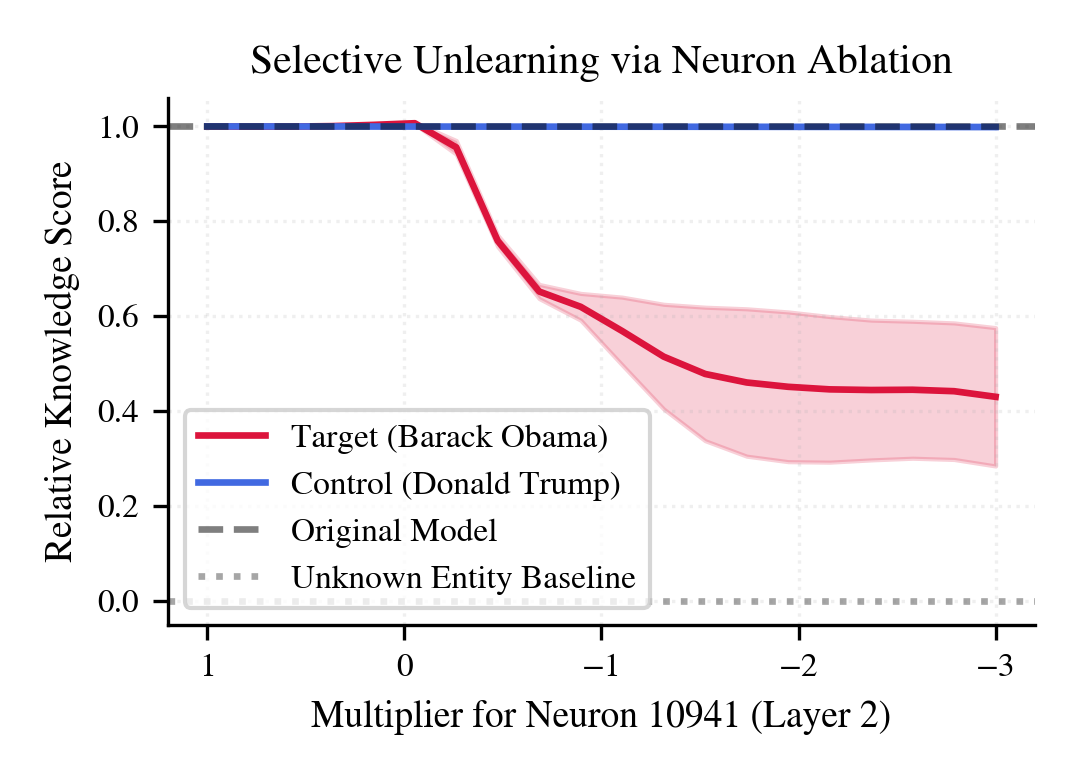
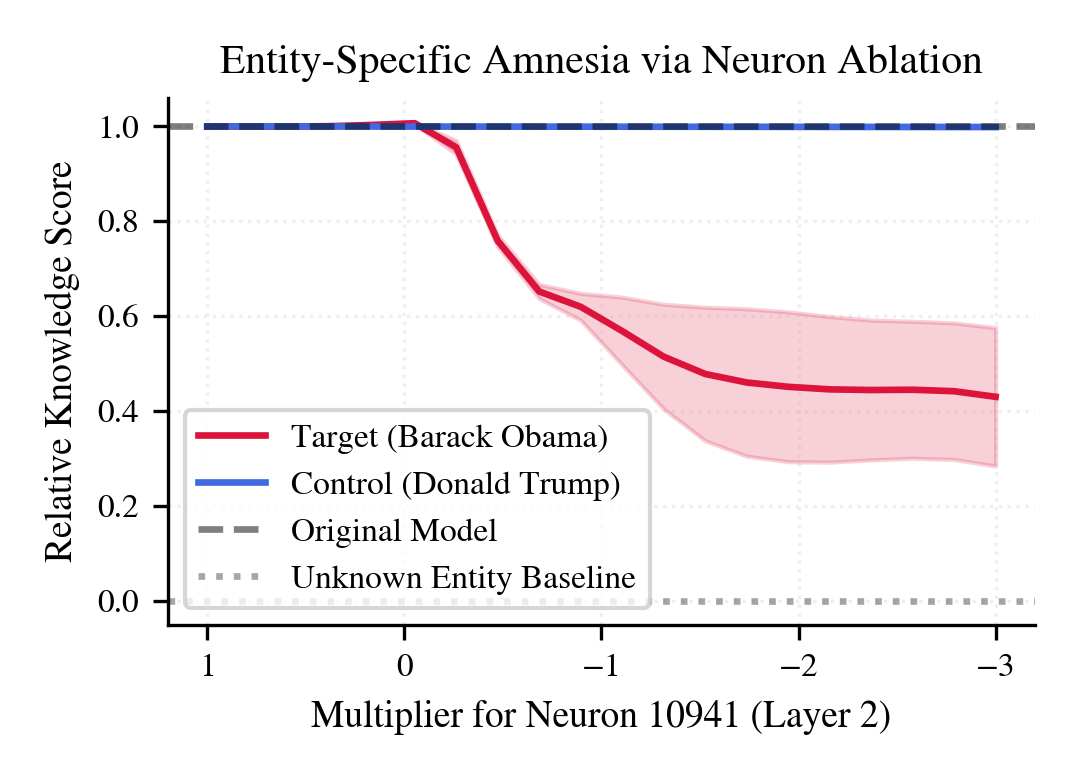
Tighten framing and rename F6 amnesia plot title

Changed region(s): [[0.1833, 0.0615, 0.9167, 0.1231]]

diff --git a/paper/paper.tex b/paper/paper.tex
@@ -43,15 +43,15 @@
 \maketitle
 
 \begin{abstract}
-Large language models store vast entity-centric knowledge, but where that knowledge lives internally and how controllable it is remain open questions. We provide a mechanistic study in Qwen2.5-7B base that localizes entity-associated MLP neurons (entity cells), validates them with causal interventions, and tests whether targeted edits can remain selective. Across a curated PopQA-200 benchmark, we find sparse and stable entity cells concentrated in early MLP layers and robust to surface-form variation. In QA-style prompts, activation injection at localized cells recovers answer-token probability relative to no-injection and wrong-cell controls, and negative ablation produces selective unlearning for a target entity relative to a control. Extending the full localization pipeline to six additional open $\sim$7B models shows strong per-entity localization signals but model-dependent depth profiles, indicating transfer with architecture sensitivity. Together, these results support a practical path toward interpretable, reversible, and low-cost factual modulation in pretrained models.
+Large language models exhibit strong entity-centric behavior, but the internal features that identify entities across surface forms remain poorly characterized. We present a mechanistic study in Qwen2.5-7B base that localizes sparse entity-sensitive MLP features (entity cells), validates them with causal interventions, and tests whether modulation can remain selective. Across a curated PopQA-200 benchmark, we find stable entity cells concentrated in early layers and robust to typos, acronyms, and multilingual forms. In QA-style prompts, controlled activation injection on top of a mean-entity initialization increases answer-token probability for the matched entity relative to wrong-cell controls, while negative ablation induces entity-specific amnesia with minimal control-entity drift. Extending the same pipeline to six additional open $\sim$7B models shows limited transfer: sparse candidates are detectable, but strong causal and robustness signals are concentrated in the Qwen family (and partly OLMo). These results support a practical view of entity cells as canonicalization anchors and pointer-like control features for interpretable factual modulation.
 \end{abstract}
 
 \section{Introduction}
-Large language models (LLMs) encode extensive factual knowledge about the world. A practical question is how this knowledge is represented internally: is it distributed across many units, or can specific facts (or fact bundles) be localized to identifiable components? This question matters for interpretability, model editing, and safety. If knowledge is mediated by sparse components, then lightweight interventions could selectively strengthen or suppress targeted behaviors without retraining.
+Large language models (LLMs) encode extensive factual behavior about entities, but the mechanism that links varied surface forms to the same latent identity is still unclear. A practical question is whether sparse internal features act as canonicalization anchors that route computation toward an entity-consistent state. This question matters for interpretability, model editing, and safety, because such anchors would provide lightweight intervention points without full retraining.
 
-We focus on \emph{named entities} (people, organizations, places), because entity-centric knowledge is both pervasive and structured: one entity connects to many relations (birthplace, spouse, founders, location, etc.). Our core mechanistic question is:
+We focus on \emph{named entities} (people, organizations, places), because entity-centric behavior is both pervasive and structured: one entity links to many relations (birthplace, spouse, founders, location, etc.). Our core mechanistic question is:
 \begin{quote}
-\small \emph{Does a pretrained base LLM contain sparse MLP neurons that behave as stable entity representations across diverse prompts, and do such neurons causally influence entity-specific factual behavior?}
+\small \emph{Does a pretrained base LLM contain sparse MLP neurons that behave as stable entity-sensitive pointers across diverse prompts, and do these features causally modulate entity-specific factual recall?}
 \end{quote}
 
 We study Qwen2.5-7B base \cite{qwen25}. Working with a base model is deliberate: unlike instruction-tuned models, base models do not reliably follow QA formats, so causal effects must be measured carefully with prompt styles and metrics that reflect next-token prediction. We additionally report a cross-model extension in Appendix~\ref{app:cross_model}, including Qwen2.5-7B-Instruct and other open $\sim$7B checkpoints.
@@ -66,14 +66,14 @@ By analogy to the ``grandmother cell'' hypothesis in neuroscience, we refer to s
   \item \textbf{Causal probes.} We implement reversible activation-level injection and negative ablation to test whether localized cells causally modulate entity-relevant completions and whether suppression can remain selective.
 \end{enumerate}
 
-\paragraph{Overview of Findings.} The four primary findings establish early-layer concentration, causal recovery under controlled injection, robustness to name variants, and selective unlearning via single-cell ablation. Appendices provide prompt templates, algorithms, and the full PopQA-200 entity cell map (neuron coordinates).
+\paragraph{Overview of Findings.} The four primary findings establish early-layer concentration, causal modulation under controlled injection, robustness to name variants, and entity-specific amnesia under single-cell ablation. Appendices provide prompt templates, algorithms, and the full PopQA-200 entity cell map (neuron coordinates).
 
 \section{Related Work}
 \textbf{Factual recall and localization.} A growing literature localizes factual associations in transformers at the level of neurons, features, and layers, and shows that targeted interventions can modulate recall \cite{dai2022knowledgeneurons,nanda2023fact,geva2023dissecting,hernandez2023linearity}. Our work differs in granularity and setup: we localize \emph{entity-centered} cells by aggregating evidence across multiple prompts per entity and normalizing against generic baselines, enabling a dataset-scale map (PopQA-200) and matched causal controls in a pretrained base model.
 
 \textbf{Subject representations and detokenization.} Recent evidence suggests that early layers transform multi-token surface forms into more coherent lexical/semantic representations \cite{elhage2022solu,kaplan2024tokens,feucht2024token}. Sparse-probing studies identify units that respond to multi-token concepts and words \cite{gurnee2023findingneuronshaystackcase}. We operationalize this idea with surface-form robustness probes (typos, acronyms, and multilingual scripts) that test whether localization tracks entity identity beyond a particular tokenization.
 
-\textbf{MLPs as memories.} Feed-forward blocks have been modeled as key--value memories that store factual content \cite{geva2021kv}, and embedding-space analyses seek to interpret these stores \cite{dar2023analyzingtransformersembeddingspace}. Our finding that entity cells concentrate early and can be manipulated at inference time is consistent with an MLP-mediated memory view, while emphasizing sparsity and stability as explicit, measurable criteria.
+\textbf{MLPs as associative/routing features.} Feed-forward blocks have been modeled as key--value memories \cite{geva2021kv}, and embedding-space analyses seek to characterize these associations \cite{dar2023analyzingtransformersembeddingspace}. Our results are also consistent with an alternative interpretation: sparse MLP features can act as entity-sensitive routing coordinates that help canonicalize surface forms into a shared latent identity state. We therefore treat localized cells as leverage points in a broader distributed circuit, not isolated memory containers.
 
 \textbf{Editing and causal interventions.} Parameter-editing methods (e.g., ROME, MEMIT) aim to rewrite stored associations persistently \cite{meng2022rome,meng2023memit}. Complementary approaches inspect and manipulate hidden representations with activation patching and causal tracing frameworks \cite{ghandeharioun2024patchscopesunifyingframeworkinspecting}. We emphasize \emph{reversible} activation-level tests (controlled injection and negative ablation) with wrong-cell and unknown-entity baselines, as lightweight causal validation of localization.
 
@@ -82,7 +82,7 @@ By analogy to the ``grandmother cell'' hypothesis in neuroscience, we refer to s
 We use Qwen2.5-7B base \cite{qwen25} (28 transformer blocks). Unless stated otherwise, we run inference in half precision with automatic device mapping.
 
 \subsection{Data and Sampling}
-We use PopQA \cite{popqa}, an entity-centric QA dataset derived from Wikidata with subject entities and answer aliases (PopQA test split). Instead of random subjects, we build a curated set of $N=200$ high-salience entities by seeding countries, cities, and widely known people, then filling from PopQA by popularity with a minimum of two available questions per entity. For localization and causal checks we use $K=2$ questions per entity. We also define a 5-entity reference set with fixed cell coordinates (Table~\ref{tab:validation_set}) for sanity-checking localization and injection behavior. When a question does not contain a recoverable entity span after tokenization, we skip it for position-dependent analyses.
+We use PopQA \cite{popqa}, an entity-centric QA dataset derived from Wikidata with subject entities and answer aliases (PopQA test split). Instead of random subjects, we build a curated set of $N=200$ high-salience entities by seeding countries, cities, and widely known people, then filling from PopQA by popularity with a minimum of two available questions per entity. For localization and causal checks we use $K=2$ questions per entity; this keeps compute low but can increase per-entity variance, so we interpret entity-level outcomes with that sampling noise in mind. We also define a 5-entity reference set with fixed cell coordinates (Table~\ref{tab:validation_set}) for sanity-checking localization and injection behavior. When a question does not contain a recoverable entity span after tokenization, we skip it for position-dependent analyses.
 
 \subsection{Prompting and Token Positions}
 Because Qwen2.5-7B is pretrained rather than instruction tuned, we use a minimal QA wrapper for PopQA:
@@ -149,7 +149,7 @@ We rank all $(\ell,j)$ pairs by $S_{\ell j}$ and select the top neuron as the en
 \begin{equation}
 a_{\ell^\star j^\star}(x)[t(x)] \leftarrow v,
 \end{equation}
-with $v$ set to an entity-specific value estimated from the entity-present prompts in Finding 2. We use ``wrong cell'' controls by injecting a cell localized to a different entity.
+with $v$ set to an entity-specific value estimated from the entity-present prompts in Finding 2. In controlled injection, this overwrite is applied on top of a mean-entity initialization, so the intervention probes directional movement on an existing entity manifold rather than de novo reconstruction from a single coordinate. We use ``wrong cell'' controls by injecting a cell localized to a different entity.
 
 \textbf{Negative ablation.} We multiply a chosen cell's activation by a scalar $\alpha$:
 \begin{equation}
@@ -162,8 +162,8 @@ Several experiments use next-token probabilities. Given a set of answer aliases 
 \begin{equation}
 p_{\mathrm{ans}}(x) = \max_{a \in \mathcal{A}} p\big(\mathrm{tok}_1(a)\,|\,x\big).
 \end{equation}
-For injection experiments we report a normalized score $\mathrm{RelProb}$: the mean $p_{\mathrm{ans}}$ under a condition divided by the mean under the corresponding entity-present prompt (so 1.0 indicates parity).
-For selective unlearning (main Finding 4) we define a normalized knowledge score based on log-probabilities, anchored by an unknown-entity baseline computed by swapping the entity name for a small set of unseen names and averaging the resulting answer log-probabilities.
+For injection experiments we report a normalized score $\mathrm{RelProb}$: the mean $p_{\mathrm{ans}}$ under a condition divided by the mean under the corresponding entity-present prompt (so 1.0 indicates parity). Because this is a first-token metric, some gains can reflect lexical priming rather than full multi-token factual completion.
+For entity-specific amnesia tests (main Finding 4) we define a normalized score based on log-probabilities, anchored by an unknown-entity baseline computed by swapping the entity name for a small set of unseen names and averaging the resulting answer log-probabilities.
 
 \section{Findings}
 We report four primary findings with matched experiments and controls. Unless noted otherwise, localization statistics use the curated PopQA-200 set described in Section 3. The full 200-entity cell map with trustworthiness flags is provided in Appendix Section~\ref{app:entity_neurons}.
@@ -171,7 +171,7 @@ We report four primary findings with matched experiments and controls. Unless no
 \begin{finding}{Finding 1: Entity Cells Concentrate in Early Layers}
 \textbf{Experiment.} For each entity, we rank all MLP neurons by the stability score and record the layer of the top-ranked cell.
 
-\textbf{Result.} Localization is strongly non-uniform (Figure~\ref{fig:layerhist}). Nearly all entities peak in early blocks: 99.0\% localize to layers 0--5, and only 1.0\% peak outside this range (layers 22 and 27). This skew is not enforced by our procedure: we rank neurons over all 28 layers and only apply any layer-range constraints in downstream trust checks.
+\textbf{Result.} Localization is strongly non-uniform (Figure~\ref{fig:layerhist}): 99.0\% of entities peak in layers 0--5, and only 1.0\% peak in layers 22 or 27. Since ranking is over all 28 layers, this pattern is empirical rather than enforced. We interpret it as evidence that entity cells act as early identity-canonicalization features.
 \end{finding}
 
 \begin{figure}[!h]
@@ -181,23 +181,23 @@ We report four primary findings with matched experiments and controls. Unless no
 \label{fig:layerhist}
 \end{figure}
 
-\begin{finding}{Finding 2: Controlled Injection Is Directional in QA-Style Prompts}
-\textbf{Experiment.} For each PopQA-200 entity whose localized cell passes our automated trust checks (Appendix~\ref{app:entity_neurons}), we run $K{=}2$ PopQA questions per entity, replace one surface-form alias in the question with a placeholder token \texttt{X}, and initialize the \texttt{X} position to a \emph{mean entity activation} estimated by averaging MLP activations at entity-mention positions across entity-present prompts. Correct-cell and wrong-cell interventions are both applied \emph{on top of this mean-initialized state}: we first set the full hidden vector at \texttt{X} to the mean entity vector, then overwrite only the selected cell coordinates. We inject either (i) the entity's top-$k$ cells within the localized layer ($k{=}5$, anchored to the top cell) or (ii) a wrong-entity top-$k$ control at the \texttt{X} position. Because injection strength is entity-dependent, we sweep $\alpha \in \{1,2,4,8,16,32,64,128,200\}$ per entity and report results at the best-performing $\alpha$.
+\begin{finding}{Finding 2: Controlled Injection Provides Directional Causal Modulation}
+\textbf{Experiment.} For each trustworthy PopQA-200 entity (Appendix~\ref{app:entity_neurons}), we run $K{=}2$ questions, replace one entity mention with \texttt{X}, and intervene at that token. We first set the full vector at \texttt{X} to a mean-entity initialization, then overwrite selected coordinates with either the entity's top-$k$ cells ($k{=}5$) or a wrong-entity top-$k$ control. We sweep $\alpha \in \{1,2,4,8,16,32,64,128,200\}$ per entity and report the best value.
 
-\textbf{Result.} Over the trustworthy subset ($k=131$ entities), mean-entity initialization alone yields $\mathrm{RelProb}=0.067$, correct-cell injection increases this to 0.559, and wrong-cell injection reaches only 0.075 (Figure~\ref{fig:f4}). The no-injection baseline is nearly identical to mean-entity initialization (0.067), so we omit it from the main plot for readability. Using an entity-level success criterion ($\mathrm{RelProb}\ge 0.30$, at least +0.05 over no-injection and +0.05 over wrong-cell), 77/131 entities succeed with top-$k$ injection, compared with 75/131 under top-1 only; only 3 entities require top-$k$ to pass. This provides a clear directional causal signal in a controlled QA-style setting.
+\textbf{Result.} Over the trustworthy subset ($k=131$ entities), mean-entity initialization alone yields $\mathrm{RelProb}=0.067$, correct-cell injection increases this to 0.559, and wrong-cell injection reaches only 0.075 (Figure~\ref{fig:f4}). The no-injection baseline is nearly identical to mean-entity initialization (0.067), so we omit it from the main plot for readability. Using an entity-level success criterion ($\mathrm{RelProb}\ge 0.30$, at least +0.05 over no-injection and +0.05 over wrong-cell), 77/131 entities succeed with top-$k$ injection, compared with 75/131 under top-1 only; only 3 entities require top-$k$ to pass. This supports directional modulation on an existing entity manifold, not single-cell reconstruction of full factual content.
 \end{finding}
 
 \begin{figure}[!h]
 \centering
 \includegraphics[width=\columnwidth]{figures/f4_activation_causality_popular200_trustworthy_meaninit_topk5_alphasearch_poplist_relprob.pdf}
-\caption{PopQA-style activation causality on trustworthy entity cells ($k=131$ entities out of $N=200$; $K{=}2$ questions per entity, $n=262$ examples). Bars report $\mathrm{RelProb}$ (answer-token probability divided by the entity-present probability). All interventions operate at the placeholder \texttt{X} position in two stages: (1) set the full layer vector to the mean-entity initialization, then (2) overwrite the selected top-$k$ coordinates ($k{=}5$) using per-entity $\alpha \in \{1,2,4,8,16,32,64,128,200\}$. We show entity-present, mean-entity, correct-cell, and wrong-cell conditions; no-injection is omitted because it is numerically almost identical to mean-entity in this run (0.0670 vs.\ 0.0673).}
+\caption{Activation causality on trustworthy entities ($k=131$, $n=262$). $\mathrm{RelProb}$ is normalized by the entity-present condition. Interventions at \texttt{X} use mean-entity initialization plus top-$k$ overwrite ($k{=}5$, per-entity $\alpha$ sweep). Correct-cell injection strongly exceeds wrong-cell control.}
 \label{fig:f4}
 \end{figure}
 
-\begin{finding}{Finding 3: Localization Is Robust to Surface-Form Variation}
+\begin{finding}{Finding 3: Localization Tracks Identity Across Surface Forms}
 \textbf{Experiment.} We repeat localization under surface-form perturbations while holding relation prompts fixed. We test (i) spelling/phrasing variants (Barack Obama), (ii) acronym variants (Federal Bureau of Investigation vs.\ FBI), and (iii) multilingual variants of the same place name (Paris written in different scripts).
 
-\textbf{Result.} The same cell (L2-N10941) remains top-ranked across spelling and phrasing variants of ``Barack Obama'' (Figure~\ref{fig:f3}). We observe similar robustness for acronym and multilingual surface forms (Figures~\ref{fig:f3_acronym} and~\ref{fig:f3_multilingual}), supporting an entity-level representation rather than a brittle single-token artifact.
+\textbf{Result.} The same cell (L2-N10941) remains top-ranked across spelling and phrasing variants of ``Barack Obama'' (Figure~\ref{fig:f3}). We observe similar robustness for acronym and multilingual surface forms (Figures~\ref{fig:f3_acronym} and~\ref{fig:f3_multilingual}), supporting a canonicalization role: the localized feature tracks latent identity across tokenization changes rather than memorizing one surface token sequence.
 \end{finding}
 
 \begin{figure}[!h]
@@ -217,32 +217,32 @@ We report four primary findings with matched experiments and controls. Unless no
 \begin{figure}[!h]
 \centering
 \includegraphics[width=\columnwidth]{figures/f3_multilingual_grid_2x2.pdf}
-\caption{Multilingual robustness: ``Paris'' written in different scripts (Latin, Hebrew, Chinese, Arabic) localizes to the same top-ranked cell (L1-N231), suggesting the criterion tracks entity identity beyond token-level spelling.}
+\caption{Multilingual robustness: ``Paris'' written in different scripts (Latin, Hebrew, Chinese, Arabic) localizes to the same top-ranked cell (L1-N231), consistent with surface-form canonicalization into a shared identity coordinate.}
 \label{fig:f3_multilingual}
 \end{figure}
 \FloatBarrier
 
-\begin{finding}{Finding 4: Single-Cell Ablation Produces Selective Unlearning}
+\begin{finding}{Finding 4: Negative Ablation Induces Entity-Specific Amnesia}
 \textbf{Experiment.} Case study (Obama vs.\ Trump control): we scale the localized Obama cell (L2-N10941) activation by $\alpha \in [1,-3]$ and evaluate target (Barack Obama) and control (Donald Trump) fact sets.
 
-\textbf{Result.} Target retention drops from 1.0 to 0.430 at $\alpha=-3$, while control retention stays near baseline (1.0 to 0.999; Figure~\ref{fig:f6}). This indicates selective degradation rather than a broad collapse of model behavior.
+\textbf{Result.} Target retention drops from 1.0 to 0.430 at $\alpha=-3$, while control retention stays near baseline (1.0 to 0.999; Figure~\ref{fig:f6}). This pattern is consistent with entity-specific amnesia: ablation disrupts access to an identity signal for the targeted entity without broad behavioral collapse.
 \end{finding}
 
 \begin{figure}[!h]
 \centering
 \includegraphics[width=\columnwidth]{figures/f6_unlearning_obama_trump.pdf}
-\caption{Selective unlearning under negative ablation for the localized Obama cell (L2-N10941). Target (Barack Obama) knowledge drops substantially as $\alpha$ decreases, while control (Donald Trump) remains near baseline.}
+\caption{Entity-specific amnesia under negative ablation for the localized Obama cell (L2-N10941). Target (Barack Obama) recall drops substantially as $\alpha$ decreases, while control (Donald Trump) remains near baseline.}
 \label{fig:f6}
 \end{figure}
 
 \section{Discussion}
-The combined evidence supports a sparse-key view of entity knowledge in Qwen2.5-7B base. Localization is strong, concentrated in early blocks, and robust to surface-form variation. Controlled injection recovers answer-token probability in QA-style prompts relative to no-injection and wrong-cell controls, and negative ablation can selectively degrade entity knowledge relative to a control entity without collapsing model behavior. Cross-model extension results (Appendix~\ref{app:cross_model}) show that sparse entity-cell candidates can be found across model families, but their causal strength and surface-form robustness are model dependent.
+The combined evidence supports a canonicalization-and-control view of entity cells in Qwen2.5-7B base. Localization is strong, early-layer concentrated, and robust across typos, acronyms, and multilingual forms, which is consistent with latent identity anchoring. Controlled injection then shows that these anchors are causally actionable: moving selected coordinates from a shared mean-entity state shifts answer probability in the expected direction, while wrong-cell controls do not. Negative ablation produces entity-specific amnesia, suggesting loss of access to an identity pointer rather than erasure of all related knowledge. Cross-model extension (Appendix~\ref{app:cross_model}) is mostly negative: outside Qwen2.5-7B-Instruct and OLMo-7B, the same signals are much weaker.
 
 \section{Limitations and Scope}
-This study focuses on one base model and one dataset family. The stability score is heuristic and may miss distributed or multi-cell codes. Metrics are mostly first-token based, which can understate multi-token factual competence. Our injection and ablation experiments are narrow (limited prompt families and a small set of entities for causal checks), and should be expanded across entities, relations, and models. We also include an exploratory \emph{factual modification} procedure via latent steering: optimizing a small perturbation injected at an entity-associated activation site to rewrite a specific relation while preserving unrelated facts; Appendix~\ref{app:latent_steering} provides a concrete template (Algorithm~\ref{alg:steer}) and prompt set.
+This study focuses on one base model and one dataset family. The stability score is heuristic and may miss distributed or multi-cell codes. Metrics are mostly first-token based, which can understate multi-token factual competence and can reflect lexical priming effects. We use $K{=}2$ prompts per entity for localization and causal checks, which can introduce per-entity instability. In Finding 2, $\alpha$ is selected per entity from a sweep; this improves sensitivity but can introduce optimistic bias, and a fixed-$\alpha$ protocol is an important next step. Our injection and ablation experiments are still narrow in relation coverage. We also include an exploratory \emph{factual modification} procedure via latent steering: optimizing a small perturbation injected at an entity-associated activation site to rewrite a specific relation while preserving unrelated facts; Appendix~\ref{app:latent_steering} provides a concrete template (Algorithm~\ref{alg:steer}) and prompt set.
 
 \section{Conclusion}
-Entity-centric knowledge in Qwen2.5-7B base is often tied to sparse, stable, and causally actionable cells. Across a curated PopQA-200 benchmark, we find early-layer concentration, robustness to name variants, causal recovery under controlled injection, and selective single-cell unlearning relative to a control entity. These findings provide a practical blueprint for turning mechanistic observations into paper-grade causal evidence.
+Entity behavior in Qwen2.5-7B base is strongly shaped by sparse, stable, and causally actionable entity cells. Across a curated PopQA-200 benchmark, we find early-layer concentration, robustness to surface-form variation, directional causal modulation under controlled injection, and entity-specific amnesia under negative ablation. These results support a practical mechanistic picture in which localized cells function as latent identity anchors within larger circuits, offering concrete intervention points for interpretable factual control.
 
 \bibliographystyle{plain}
 \bibliography{refs}
@@ -278,8 +278,8 @@ Factual modification & {\ttfamily The spouse of <entity> is named} \\
 \label{tab:prompts}
 \end{table}
 
-\paragraph{Key hyperparameters.} Unless stated otherwise: curated PopQA $N=200$ entities, $K=2$ questions per entity for localization and causal checks, seed 7, and $\epsilon=10^{-6}$ for stability computations. Selective unlearning (main Finding 4) uses $\alpha \in [1, -3]$ with 20 steps.
-\paragraph{Finding 2 injection setting.} For Finding 2 we use set-injection at the placeholder position with mean-entity initialization. Concretely, we first set the full hidden vector at \texttt{X} to the layer-specific mean-entity vector, then overwrite the selected top-$k$ coordinates ($k{=}5$). We sweep an interpolation/extrapolation factor $\alpha \in \{1,2,4,8,16,32,64,128,200\}$ per entity, selecting the best-performing $\alpha$ for reporting. We additionally flag entity-level success when $\mathrm{RelProb}\ge 0.30$ and both margins $\mathrm{RelProb}-\mathrm{RelProb}_{\mathrm{no\ inj}}\ge 0.05$ and $\mathrm{RelProb}-\mathrm{RelProb}_{\mathrm{wrong}}\ge 0.05$.
+\paragraph{Key hyperparameters.} Unless stated otherwise: curated PopQA $N=200$ entities, $K=2$ questions per entity for localization and causal checks, seed 7, and $\epsilon=10^{-6}$ for stability computations. Entity-specific amnesia (main Finding 4) uses $\alpha \in [1, -3]$ with 20 steps.
+\paragraph{Finding 2 injection setting.} For Finding 2 we use set-injection at the placeholder position with mean-entity initialization. Concretely, we first set the full hidden vector at \texttt{X} to the layer-specific mean-entity vector, then overwrite the selected top-$k$ coordinates ($k{=}5$). We sweep an interpolation/extrapolation factor $\alpha \in \{1,2,4,8,16,32,64,128,200\}$ per entity, selecting the best-performing $\alpha$ for reporting; this choice is intentionally high-sensitivity and may be optimistic relative to a fixed-$\alpha$ protocol. We additionally flag entity-level success when $\mathrm{RelProb}\ge 0.30$ and both margins $\mathrm{RelProb}-\mathrm{RelProb}_{\mathrm{no\ inj}}\ge 0.05$ and $\mathrm{RelProb}-\mathrm{RelProb}_{\mathrm{wrong}}\ge 0.05$.
 
 \section{Algorithms}
 \label{app:algorithms}
@@ -404,14 +404,7 @@ The full PopQA-200 entity map is grouped by category to improve readability. The
 \clearpage
 \section{Extension to Other Models}
 \label{app:cross_model}
-We extend the full pipeline to six additional open $\sim$7B checkpoints and keep the protocol fixed: PopQA-200 localization ($K{=}2$), then causal injection on found cells, then robustness to multiple surface forms. All coordinates are re-localized per model (no coordinate transfer).
-
-\paragraph{Pipeline used per model.}
-\begin{enumerate}
-\item Localize one top cell per entity on PopQA-200 (same normalization and stability score as the main model).
-\item Run activation-causality on found cells (correct-cell vs.\ wrong-cell controls) with model-specific found coordinates.
-\item Probe robustness of top-cell identity under three variant families: Obama typos (4 forms), FBI acronym (2 forms), and Paris multilingual forms (4 scripts).
-\end{enumerate}
+We rerun the same pipeline on six additional open $\sim$7B checkpoints: PopQA-200 localization ($K{=}2$), causal injection on found cells, and variant robustness checks. Coordinates are re-localized per model (no coordinate transfer). The main outcome is negative: outside Qwen2.5-7B-Instruct and OLMo-7B, the causal and robustness signals are weak.
 
 \begin{table}[!h]
 \centering
@@ -430,16 +423,9 @@ Mistral-7B-v0.3 & 200 & 36.0 & 13.0 & 0.006 & 12.5 & 5/40 & 4/10 \\
 OpenLLaMA-7B & 200 & 43.0 & 10.0 & 0.116 & 36.4 & 12/33 & 3/10 \\
 \bottomrule
 \end{tabular}
-\caption{Cross-model extension summary. $n$ and layer statistics are from PopQA-200 localization. $\Delta$(C-W) is the gap in relative answer probability between correct-cell and wrong-cell injection. ``Succ.'' uses the same entity-level success criterion as Finding~2. ``Var. match'' is exact top-cell match across 10 surface-form probes (Obama typos 4, FBI acronym 2, Paris multilingual 4).}
+\caption{Cross-model summary. $\Delta$(C-W) is the correct-minus-wrong injection gap in relative answer probability. ``Succ.'' is the Finding~2 entity-level success criterion. ``Var. match'' is exact top-cell match across 10 surface-form probes.}
 \label{tab:cross_model_summary}
 \end{table}
-
-\begin{figure}[!h]
-\centering
-\includegraphics[width=\linewidth]{figures/fx_cross_model_layer06_mass.pdf}
-\caption{Localization depth across models: share of PopQA-200 entities whose found top cell is in layers 0--6.}
-\label{fig:cross_model_layer_mass}
-\end{figure}
 
 \begin{figure}[!h]
 \centering
@@ -448,56 +434,10 @@ OpenLLaMA-7B & 200 & 43.0 & 10.0 & 0.116 & 36.4 & 12/33 & 3/10 \\
 \label{fig:cross_model_f4}
 \end{figure}
 
-\begin{table}[!h]
-\centering
-\scriptsize
-\setlength{\tabcolsep}{3pt}
-\renewcommand{\arraystretch}{1.08}
-\begin{tabular}{lcccc}
-\toprule
-\textbf{Model} & \textbf{Obama} & \textbf{Trump} & \textbf{Paris} & \textbf{W. House} \\
-\midrule
-Qwen2.5-7B-Inst & L6-N14965 & L3-N8501 & L0-N7948 & L1-N11990 \\
-OLMo-7B & L27-N2691 & L3-N267 & L0-N411 & L2-N1461 \\
-Llama-3.1-8B-Inst & L0-N13195 & L2-N7199 & L7-N2408 & L26-N720 \\
-Gemma-2-9B-it & L3-N13553 & L0-N5682 & L5-N12649 & L0-N14144 \\
-Mistral-7B-v0.3 & L1-N7352 & L10-N13192 & L14-N7661 & L26-N9637 \\
-OpenLLaMA-7B & L0-N1305 & L14-N4834 & L8-N2680 & L0-N2022 \\
-\bottomrule
-\end{tabular}
-\caption{Representative found-cell coordinates from full PopQA-200 localization (independently localized per model).}
-\label{tab:cross_model_cells}
-\end{table}
-
-\begin{table}[!h]
-\centering
-\scriptsize
-\setlength{\tabcolsep}{3pt}
-\renewcommand{\arraystretch}{1.08}
-\begin{tabular}{lcccccc}
-\toprule
-\textbf{Model} & \textbf{Obama cell} & \textbf{Match} & \textbf{FBI cell} & \textbf{Match} & \textbf{Paris cell} & \textbf{Match} \\
-\midrule
-Qwen2.5-7B-Inst & L2-N10941 & 4/4 & L2-N11955 & 2/2 & L1-N231 & 4/4 \\
-OLMo-7B & L0-N1593 & 1/4 & L0-N8497 & 1/2 & L0-N4909 & 1/4 \\
-Llama-3.1-8B-Inst & L0-N13569 & 1/4 & L0-N6128 & 1/2 & L0-N11720 & 3/4 \\
-Gemma-2-9B-it & L0-N5682 & 2/4 & L0-N5682 & 2/2 & L0-N5682 & 1/4 \\
-Mistral-7B-v0.3 & L0-N2890 & 2/4 & L0-N6319 & 1/2 & L0-N4867 & 1/4 \\
-OpenLLaMA-7B & L1-N5242 & 1/4 & L1-N2405 & 1/2 & L1-N4422 & 1/4 \\
-\bottomrule
-\end{tabular}
-\caption{Canonical found cells and exact-match counts under variant probes.}
-\label{tab:cross_model_variant_cells}
-\end{table}
-
-\begin{figure}[!h]
-\centering
-\includegraphics[width=0.75\linewidth]{figures/fx_cross_model_variant_heatmap.pdf}
-\caption{Variant robustness heatmap (exact top-cell match rate by probe family and model).}
-\label{fig:cross_model_variants}
-\end{figure}
-
 \paragraph{Takeaway.}
-The extension supports a qualified claim: sparse, localizable entity-cell candidates appear across all tested model families, and causal manipulation on found cells is reproducible in multiple models. However, the strength of the causal effect and robustness to alternate surface forms vary substantially by architecture. In this setting, Qwen2.5-7B-Instruct and OLMo-7B show the strongest alignment between localization, causal controllability, and variant stability.
+The findings do not transfer uniformly across model families. While sparse candidates can be localized broadly, strong causal separation and variant robustness are concentrated in Qwen2.5-7B-Instruct and OLMo-7B.
+
+\paragraph{Why might Qwen be stronger?}
+We see three plausible hypotheses. First, Qwen tokenization and pretraining coverage may better canonicalize noisy aliases, acronyms, and multilingual forms into stable early-layer features. Second, architecture and optimization details may induce sharper sparse gating in early MLP blocks, which makes top-cell interventions more effective. Third, the Qwen data mixture may produce stronger entity-centric QA behavior at next-token level, which aligns better with our metric and intervention protocol. These are hypotheses; distinguishing them requires targeted ablations.
 
 \end{document}

diff --git a/scripts/nb_dumps/In_Silico_post_2_entity_unlearning.py b/scripts/nb_dumps/In_Silico_post_2_entity_unlearning.py
@@ -203,7 +203,7 @@ plt.axhline(0.0, color='gray', ls=':', alpha=0.7, label="Unknown Entity Baseline
 
 plt.xlabel(f"Multiplier for Neuron {neuron_id} (Layer {layer_idx})")
 plt.ylabel("Relative Knowledge Score\n(Normalized Log-Prob)")
-plt.title("Selective Unlearning via Neuron Ablation")
+plt.title("Entity-Specific Amnesia via Neuron Ablation")
 plt.legend(frameon=True)
 plt.grid(alpha=0.2)
 plt.gca().invert_xaxis()

diff --git a/scripts/redraw_paper_figures.py b/scripts/redraw_paper_figures.py
@@ -168,7 +168,7 @@ def plot_unlearning_curve_from_results(results_path: Path, out_base: Path) -> No
     else:
         ax.set_xlabel("Ablation Multiplier")
     ax.set_ylabel("Relative Knowledge Score")
-    ax.set_title("Selective Unlearning via Neuron Ablation")
+    ax.set_title("Entity-Specific Amnesia via Neuron Ablation")
     ax.legend(frameon=True)
     ax.invert_xaxis()
     fig.tight_layout()

diff --git a/scripts/f6_entity_unlearning.py b/scripts/f6_entity_unlearning.py
@@ -196,7 +196,7 @@ def main():
 
     ax.set_xlabel(f"Multiplier for Neuron {args.neuron} (Layer {args.layer})")
     ax.set_ylabel("Relative Knowledge Score")
-    ax.set_title("Selective Unlearning via Neuron Ablation")
+    ax.set_title("Entity-Specific Amnesia via Neuron Ablation")
     ax.legend(frameon=True)
     ax.invert_xaxis()
     fig.tight_layout()
